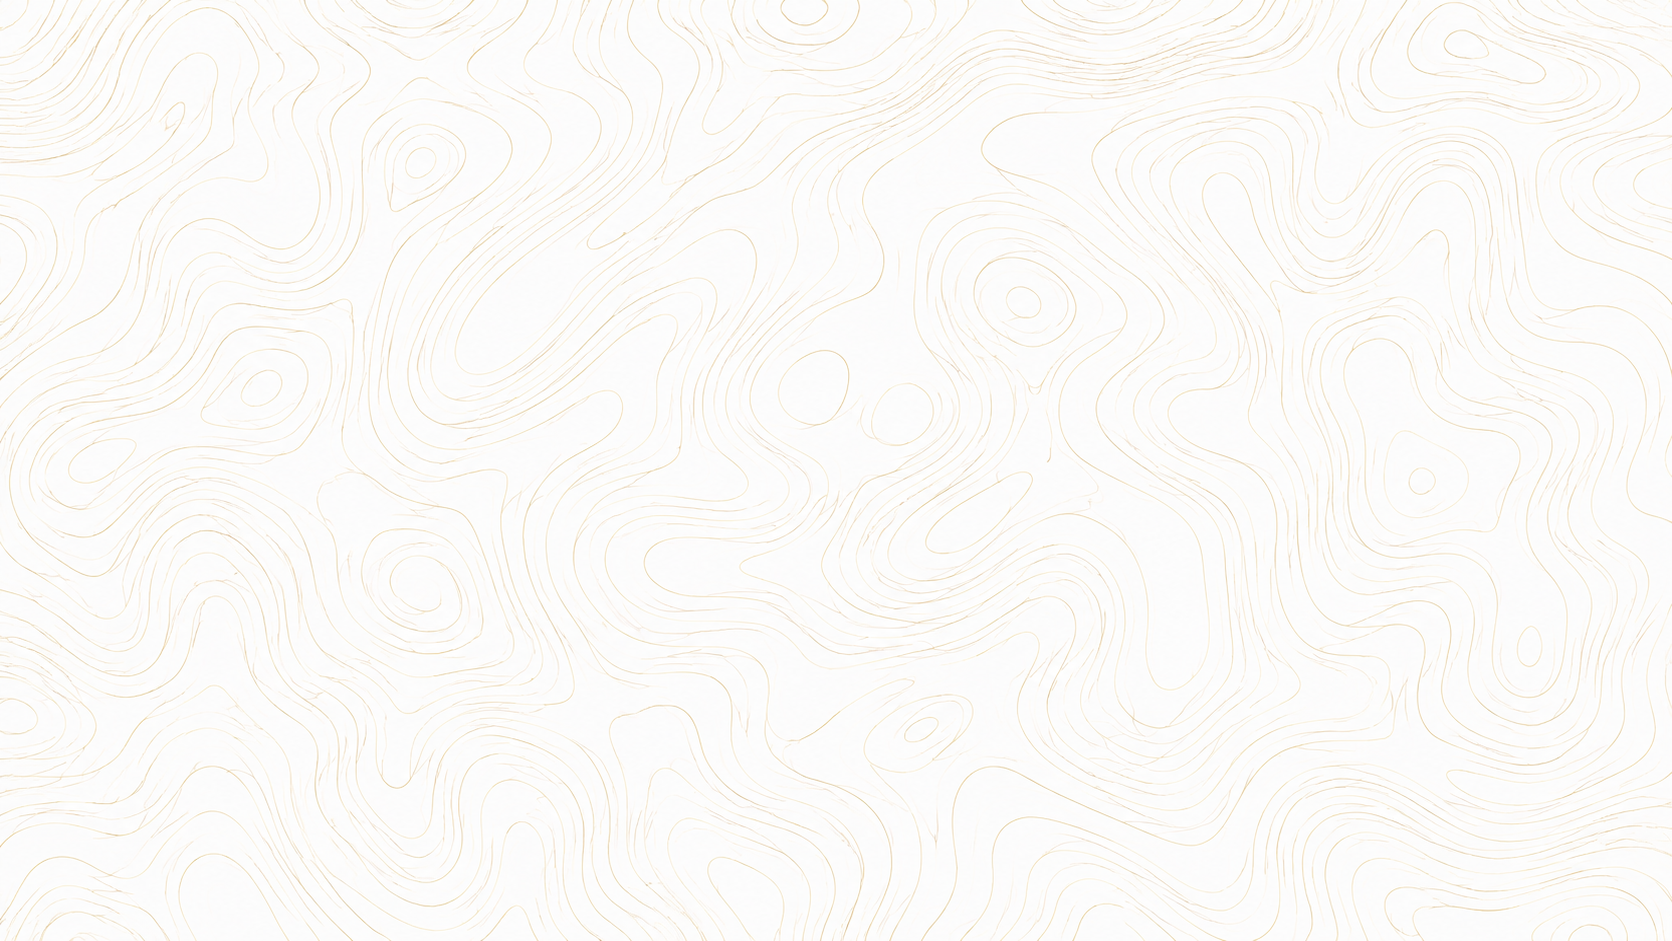
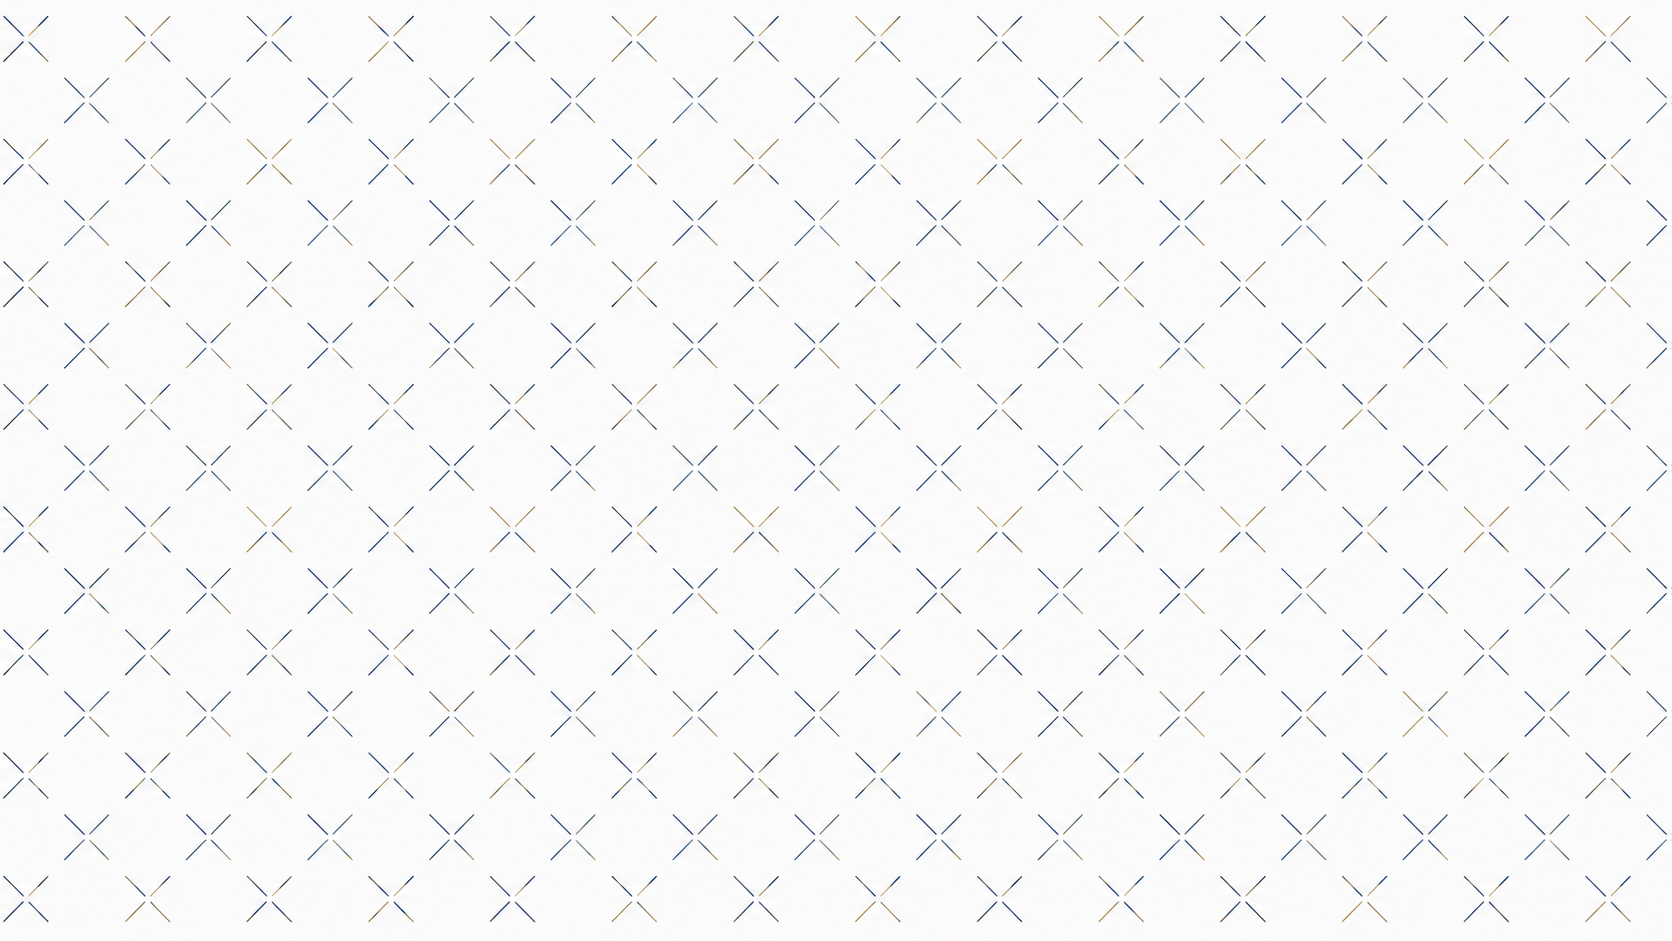
minor fixes

diff --git a/src/components/sections/land-opportunity.tsx b/src/components/sections/land-opportunity.tsx
@@ -1,16 +1,59 @@
 'use client';
 
+import { useState, useEffect, useRef } from 'react';
 import { motion } from 'framer-motion';
 import Image from 'next/image';
 
 export function LandOpportunitySection() {
+  const containerRef = useRef<HTMLDivElement>(null);
+  const [dimensions, setDimensions] = useState({ width: 0, height: 0 });
+
+  useEffect(() => {
+    if (!containerRef.current) return;
+    const resizeObserver = new ResizeObserver((entries) => {
+      for (let entry of entries) {
+        setDimensions({
+          width: entry.contentRect.width,
+          height: entry.contentRect.height
+        });
+      }
+    });
+    resizeObserver.observe(containerRef.current);
+    return () => resizeObserver.disconnect();
+  }, []);
+
+  const w = dimensions.width;
+  const h = dimensions.height;
+  const r = 16;
+  const inset = -3; // 3px outside the image container to sit exactly as a border covering the image
+  const leftX = inset;
+  const rightX = w - inset;
+  const topY = inset;
+  const bottomY = h - inset;
+  const innerR = r - inset;
+
+  const P = w && h ? Math.round((w + h) * 2) : 1800;
+  const H = w && h ? Math.round(w + h) : 900;
+
+  const pathD = w && h ? `
+    M ${leftX + innerR} ${topY}
+    L ${rightX - innerR} ${topY}
+    A ${innerR} ${innerR} 0 0 1 ${rightX} ${topY + innerR}
+    L ${rightX} ${bottomY - innerR}
+    A ${innerR} ${innerR} 0 0 1 ${rightX - innerR} ${bottomY}
+    L ${leftX + innerR} ${bottomY}
+    A ${innerR} ${innerR} 0 0 1 ${leftX} ${bottomY - innerR}
+    L ${leftX} ${topY + innerR}
+    A ${innerR} ${innerR} 0 0 1 ${leftX + innerR} ${topY}
+    Z
+  `.replace(/\s+/g, ' ').trim() : '';
   return (
-    <section 
+    <section
       className="pt-16 lg:pt-24 pb-4 lg:pb-6 relative overflow-hidden"
     >
 
       <div className="max-w-[105rem] mx-auto px-4 md:px-8 lg:px-12 relative z-10">
-        <motion.div 
+        <motion.div
           initial={{ opacity: 0, scale: 0.98, y: 30 }}
           whileInView={{ opacity: 1, scale: 1, y: 0 }}
           transition={{ duration: 0.8, ease: "easeOut" }}
@@ -19,65 +62,89 @@ export function LandOpportunitySection() {
         >
           {/* Unique Left Border Accent from Image 2 */}
           <div className="absolute left-0 top-0 bottom-0 w-2 z-20">
-             <motion.div 
-               initial={{ height: 0 }} 
-               whileInView={{ height: '40%' }} 
-               transition={{ duration: 0.8, delay: 0.2 }} 
-               viewport={{ once: true }}
-               className="absolute top-0 left-0 right-0 bg-brand-gold" 
-             />
-             <motion.div 
-               initial={{ height: 0 }} 
-               whileInView={{ height: '60%' }} 
-               transition={{ duration: 0.8, delay: 0.4 }} 
-               viewport={{ once: true }}
-               className="absolute bottom-0 left-0 right-0 bg-brand-navy" 
-             />
+            <motion.div
+              initial={{ height: 0 }}
+              whileInView={{ height: '40%' }}
+              transition={{ duration: 0.8, delay: 0.2 }}
+              viewport={{ once: true }}
+              className="absolute top-0 left-0 right-0 bg-brand-gold"
+            />
+            <motion.div
+              initial={{ height: 0 }}
+              whileInView={{ height: '60%' }}
+              transition={{ duration: 0.8, delay: 0.4 }}
+              viewport={{ once: true }}
+              className="absolute bottom-0 left-0 right-0 bg-brand-navy"
+            />
           </div>
 
           {/* Left Content Area */}
           <div className="lg:w-[60%] p-8 md:p-12 lg:p-14 pl-10 md:pl-16 xl:pl-20 flex flex-col justify-center">
-            
-            
 
-            <motion.h2 
+
+
+            <motion.h2
               initial={{ opacity: 0, y: 20 }}
               whileInView={{ opacity: 1, y: 0 }}
               transition={{ duration: 0.6, delay: 0.2 }}
               viewport={{ once: true }}
-              className="text-4xl md:text-5xl lg:text-6xl font-serif font-bold text-brand-navy leading-[1.1] mb-6 tracking-tight"
+              className="text-5xl md:text-6xl font-tibere font-black text-brand-navy leading-[1.1] mb-6 tracking-tight"
             >
-              Turning <span className="text-brand-gold">Land</span><br />
-              Into Opportunity
+              TURNING <span className="text-brand-gold">LAND</span><br />
+              INTO <span className="text-brand-gold">OPPORTUNITY</span>
             </motion.h2>
 
-            <div className="space-y-4 text-gray-500 font-sans font-medium leading-relaxed text-[15px] md:text-base">
-              <motion.p initial={{ opacity: 0, y: 20 }} whileInView={{ opacity: 1, y: 0 }} transition={{ duration: 0.6, delay: 0.3 }} viewport={{ once: true }}>
-                Land development is full of promise and full of obstacles nobody warns you about. The right land is hard to find. 
-                Approvals take longer than they should. And somewhere between the opportunity and the outcome, 
+            <div className="space-y-6 text-brand-navy/80 leading-relaxed text-lg">
+              <motion.p
+                initial={{ opacity: 0, y: 20 }}
+                whileInView={{ opacity: 1, y: 0 }}
+                transition={{ duration: 0.6, delay: 0.3 }}
+                viewport={{ once: true }}
+                className="font-poppins font-medium"
+              >
+                Land development is full of promise and full of obstacles nobody warns you about. The right land is hard to find.
+                Approvals take longer than they should. And somewhere between the opportunity and the outcome,
                 things get complicated in ways that cost you time, money, and momentum.
               </motion.p>
 
               {/* Highlight Box */}
               <motion.div initial={{ opacity: 0, scale: 0.95 }} whileInView={{ opacity: 1, scale: 1 }} transition={{ duration: 0.5, delay: 0.4 }} viewport={{ once: true }} className="bg-white border border-gray-100 shadow-[0_8px_30px_rgba(0,0,0,0.04)] rounded-xl py-4 px-6 md:px-8 border-l-4 border-l-brand-gold my-6 ml-[-2px]">
-                <p className="text-brand-navy font-bold text-lg md:text-xl m-0 leading-snug">
+                <p className="text-brand-navy font-gotham font-bold text-lg md:text-xl m-0 leading-snug">
                   That&apos;s exactly the gap we exist to close, with you.
                 </p>
               </motion.div>
 
-              <motion.p initial={{ opacity: 0, y: 20 }} whileInView={{ opacity: 1, y: 0 }} transition={{ duration: 0.6, delay: 0.5 }} viewport={{ once: true }}>
-                At Conservve Infra Solutions, we partner with landowners, aggregators, investors, and foreign institutional funds across India, 
-                to handle everything from land acquisition to statutory approvals, turning fragmented processes into a clear, 
+              <motion.p
+                initial={{ opacity: 0, y: 20 }}
+                whileInView={{ opacity: 1, y: 0 }}
+                transition={{ duration: 0.6, delay: 0.5 }}
+                viewport={{ once: true }}
+                className="font-poppins font-medium"
+              >
+                At Conservve Infra Solutions, we partner with landowners, aggregators, investors, and foreign institutional funds across India,
+                to handle everything from land acquisition to statutory approvals, turning fragmented processes into a clear,
                 confident path forward.
               </motion.p>
-              <motion.p initial={{ opacity: 0, y: 20 }} whileInView={{ opacity: 1, y: 0 }} transition={{ duration: 0.6, delay: 0.6 }} viewport={{ once: true }}>
-                We bring clarity, speed, and complete accountability to every stage, from the first site visit to the final approval stamp. 
+              <motion.p
+                initial={{ opacity: 0, y: 20 }}
+                whileInView={{ opacity: 1, y: 0 }}
+                transition={{ duration: 0.6, delay: 0.6 }}
+                viewport={{ once: true }}
+                className="font-poppins font-medium"
+              >
+                We bring clarity, speed, and complete accountability to every stage, from the first site visit to the final approval stamp.
                 Not just as experts, but as a partner who walks every step alongside you.
               </motion.p>
             </div>
 
-            <motion.div initial={{ opacity: 0, y: 20 }} whileInView={{ opacity: 1, y: 0 }} transition={{ duration: 0.6, delay: 0.7 }} viewport={{ once: true }} className="mt-8 pt-8 border-t border-gray-100/80">
-              <h4 className="text-xl md:text-2xl font-serif font-bold text-brand-navy leading-snug tracking-tight">
+            <motion.div 
+              initial={{ opacity: 0, y: 20 }} 
+              whileInView={{ opacity: 1, y: 0 }} 
+              transition={{ duration: 0.6, delay: 0.7 }} 
+              viewport={{ once: true }} 
+              className="mt-10 pt-8 border-t-2 border-brand-navy"
+            >
+              <h4 className="text-xl md:text-2xl font-tibere font-bold text-brand-navy leading-snug tracking-tight">
                 Your project deserves to move.<br />
                 <span className="text-brand-gold">Let&apos;s move it together.</span>
               </h4>
@@ -86,15 +153,16 @@ export function LandOpportunitySection() {
 
           {/* Right Image Area */}
           <div className="lg:w-[40%] relative min-h-[400px] lg:min-h-[500px] flex items-stretch p-2 md:p-3 lg:p-4">
-            <motion.div 
+            <motion.div
+              ref={containerRef}
               initial={{ scale: 1.05, opacity: 0 }}
               whileInView={{ scale: 1, opacity: 1 }}
               transition={{ duration: 1.2, ease: "easeOut", delay: 0.2 }}
               viewport={{ once: true }}
-              className="relative w-full h-full rounded-2xl overflow-hidden shadow-lg border-[8px] border-[#BFA052]"
+              className="relative w-full h-full rounded-2xl overflow-hidden shadow-lg border border-[#BFA052]/15"
             >
               <Image
-                src="/turn-into-land-opp.png" 
+                src="/turn-into-land-opp.png"
                 alt="Strategic Land Development"
                 className="object-cover"
                 fill
@@ -104,6 +172,136 @@ export function LandOpportunitySection() {
               {/* Soft gradient overlay on image to match the refined corporate feel */}
               <div className="absolute inset-0 bg-gradient-to-t from-brand-navy/40 via-transparent to-transparent opacity-80 mix-blend-multiply pointer-events-none z-10" />
             </motion.div>
+
+            {/* Animated Snake Border Overlay - Rendered outside overflow-hidden */}
+            {w > 0 && h > 0 && (
+              <svg
+                className="absolute top-2 left-2 right-2 bottom-2 md:top-3 md:left-3 md:right-3 md:bottom-3 lg:top-4 lg:left-4 lg:right-4 lg:bottom-4 pointer-events-none z-20"
+                style={{ overflow: 'visible' }}
+              >
+                <defs>
+                  <filter id="border-glow" x="-20%" y="-20%" width="140%" height="140%">
+                    <feGaussianBlur stdDeviation="3" result="blur" />
+                    <feMerge>
+                      <feMergeNode in="blur" />
+                      <feMergeNode in="SourceGraphic" />
+                    </feMerge>
+                  </filter>
+                </defs>
+                <style>{`
+                  @keyframes snake-clockwise {
+                    0% {
+                      stroke-dasharray: 0 ${P};
+                      stroke-dashoffset: 0;
+                      opacity: 0;
+                    }
+                    2% {
+                      opacity: 1;
+                    }
+                    8% {
+                      stroke-dasharray: 50 ${P};
+                      stroke-dashoffset: 0;
+                      opacity: 1;
+                    }
+                    15% {
+                      stroke-dasharray: 80 ${P};
+                      stroke-dashoffset: -30;
+                      opacity: 1;
+                    }
+                    50% {
+                      stroke-dasharray: 80 ${P};
+                      stroke-dashoffset: -${P - 110};
+                      opacity: 1;
+                    }
+                    55% {
+                      stroke-dasharray: 50 ${P};
+                      stroke-dashoffset: -${P - 50};
+                      opacity: 1;
+                    }
+                    58% {
+                      opacity: 1;
+                    }
+                    60% {
+                      stroke-dasharray: 0 ${P};
+                      stroke-dashoffset: -${P};
+                      opacity: 0;
+                    }
+                    100% {
+                      stroke-dasharray: 0 ${P};
+                      stroke-dashoffset: -${P};
+                      opacity: 0;
+                    }
+                  }
+                  @keyframes snake-counter {
+                    0% {
+                      stroke-dasharray: 0 ${P};
+                      stroke-dashoffset: -${H};
+                      opacity: 0;
+                    }
+                    2% {
+                      opacity: 1;
+                    }
+                    8% {
+                      stroke-dasharray: 50 ${P};
+                      stroke-dashoffset: -${H - 50};
+                      opacity: 1;
+                    }
+                    15% {
+                      stroke-dasharray: 80 ${P};
+                      stroke-dashoffset: -${H - 110};
+                      opacity: 1;
+                    }
+                    50% {
+                      stroke-dasharray: 80 ${P};
+                      stroke-dashoffset: -${H - P + 30};
+                      opacity: 1;
+                    }
+                    55% {
+                      stroke-dasharray: 50 ${P};
+                      stroke-dashoffset: -${H - P};
+                      opacity: 1;
+                    }
+                    58% {
+                      opacity: 1;
+                    }
+                    60% {
+                      stroke-dasharray: 0 ${P};
+                      stroke-dashoffset: -${H - P};
+                      opacity: 0;
+                    }
+                    100% {
+                      stroke-dasharray: 0 ${P};
+                      stroke-dashoffset: -${H - P};
+                      opacity: 0;
+                    }
+                  }
+                  .snake-line-1 {
+                    animation: snake-clockwise 5s linear infinite;
+                  }
+                  .snake-line-2 {
+                    animation: snake-counter 5s linear infinite;
+                  }
+                `}</style>
+                <path
+                  d={pathD}
+                  fill="none"
+                  stroke="#BFA052"
+                  strokeWidth="3"
+                  strokeLinecap="round"
+                  filter="url(#border-glow)"
+                  className="snake-line-1"
+                />
+                <path
+                  d={pathD}
+                  fill="none"
+                  stroke="#BFA052"
+                  strokeWidth="3"
+                  strokeLinecap="round"
+                  filter="url(#border-glow)"
+                  className="snake-line-2"
+                />
+              </svg>
+            )}
           </div>
         </motion.div>
       </div>

diff --git a/src/app/page.tsx b/src/app/page.tsx
@@ -22,10 +22,9 @@ export default function Home() {
       </div>
       <div 
         style={{
-          backgroundImage: "url('/contour-bg.png')",
+          backgroundImage: "linear-gradient(rgba(255, 255, 255, 0.90), rgba(255, 255, 255, 0.90)), url('/Logo_Distort_BG.png')",
           backgroundRepeat: 'repeat',
-          backgroundSize: '1672px 941px',
-          backgroundPosition: 'top center'
+          backgroundSize: '300px'
         }}
       >
         <IntegratedSolutionsSection />